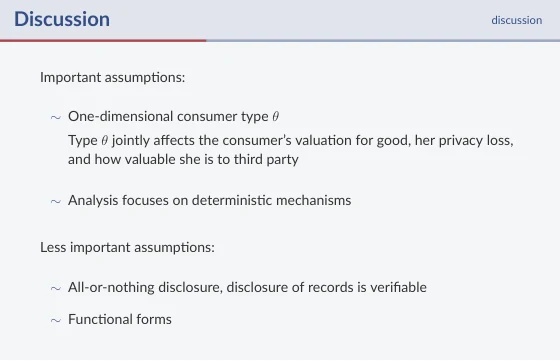
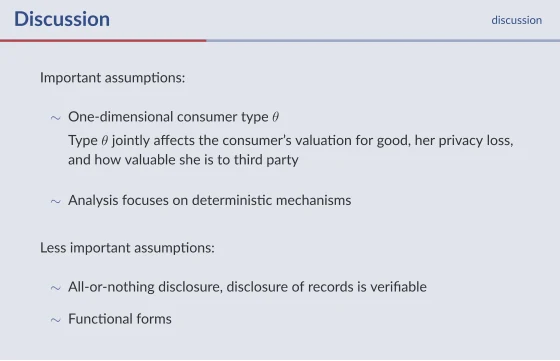
Mark four optional slides with pale blue backgrounds

diff --git a/slides/data.js b/slides/data.js
@@ -1,1 +1,1 @@
[2 lines of base64/hex data omitted]

diff --git a/slides/index.html b/slides/index.html
@@ -74,7 +74,7 @@
   </dialog>
 
   <noscript><div class="noscript">Enable JavaScript to use the presentation, or <a href="source/slides75.pdf?v=9158790c11d5fc8f">open the PDF</a>.</div></noscript>
-  <script src="data.js?v=cc9ff6fc98468ea0"></script>
+  <script src="data.js?v=8de2097b86430f79"></script>
   <script src="motion-data.js?v=f13474e8910163ad"></script>
   <script src="motion.js?v=20a17ae9c782e0b3"></script>
   <script src="app.js?v=d19d1e70df0561a1"></script>
